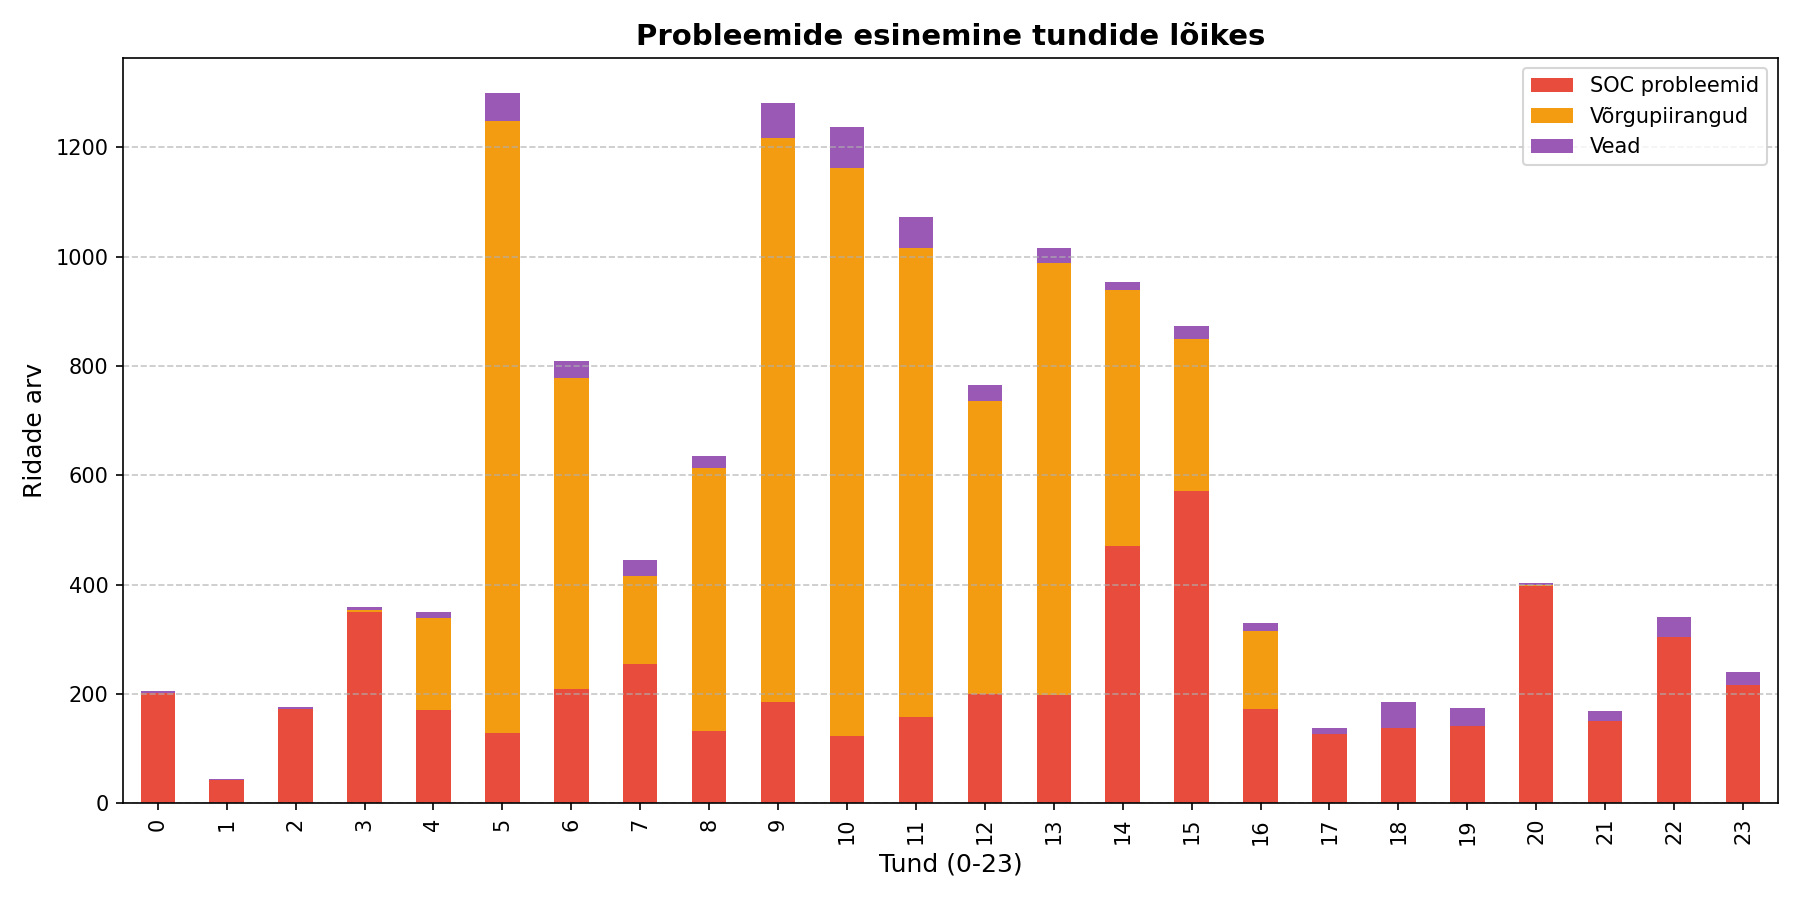
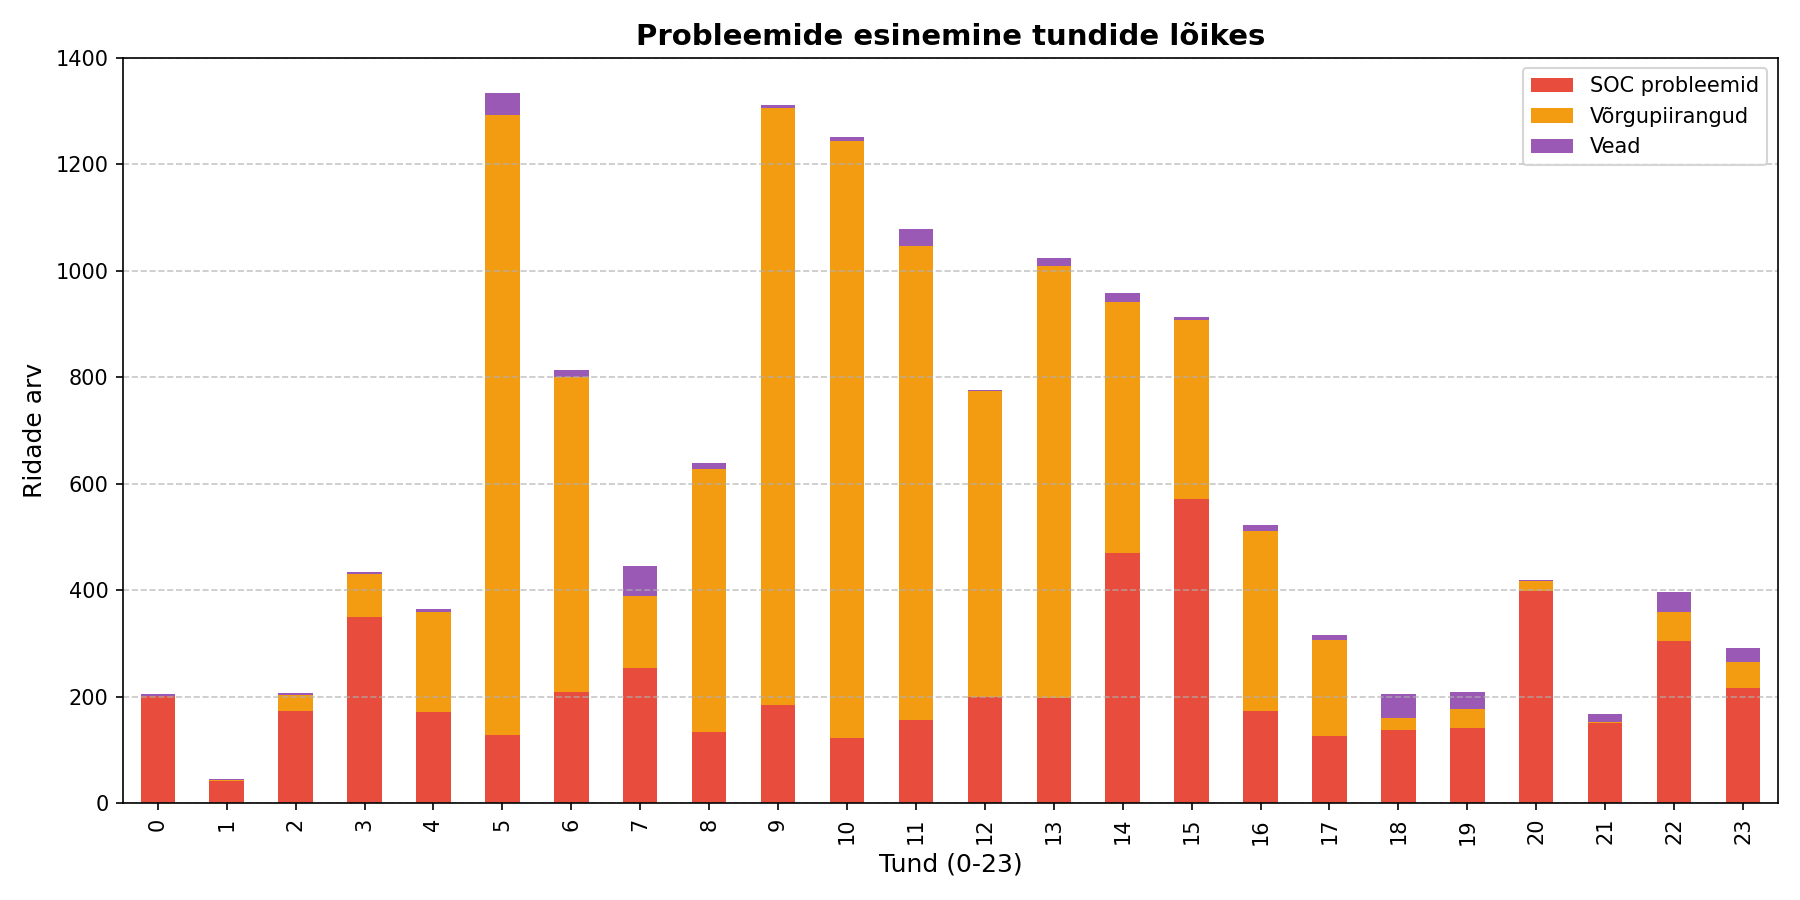
Update telemetry analysis logic with correct 50 kW expected grid power check and inclusive SOC bounds

diff --git a/analyze_telemetry.py b/analyze_telemetry.py
@@ -44,9 +44,10 @@ def main():
     # Priority 6: Osaline täitmine (50% <= Execution % < 95%)
     mask_partial = (df['Täitmise %'] >= 50) & (df['Täitmise %'] < 95)
     df.loc[mask_partial, 'Põhjus'] = "Osaline täitmine"
-    
-    # Priority 5: Võrgupiirang (|Grid Power| >= 47.5 kW)
-    mask_grid = df['Grid Power'].abs() >= 47.5
+    # Priority 5: Võrgupiirang (Expected grid power exceeds 50 kW grid connection capacity)
+    # Expected Grid Power = Grid Power + ESS Power - ESS Plan
+    expected_grid = df['Grid Power'] + df['ESS Power'] - df['ESS Plan']
+    mask_grid = (expected_grid.abs() >= 50) | (df['Grid Power'].abs() >= 50)
     df.loc[mask_grid, 'Põhjus'] = "Võrgupiirang"
     
     # Priority 4: SOC liiga kõrge laadimiseks (SOC >= 90% AND ESS Plan < 0)
